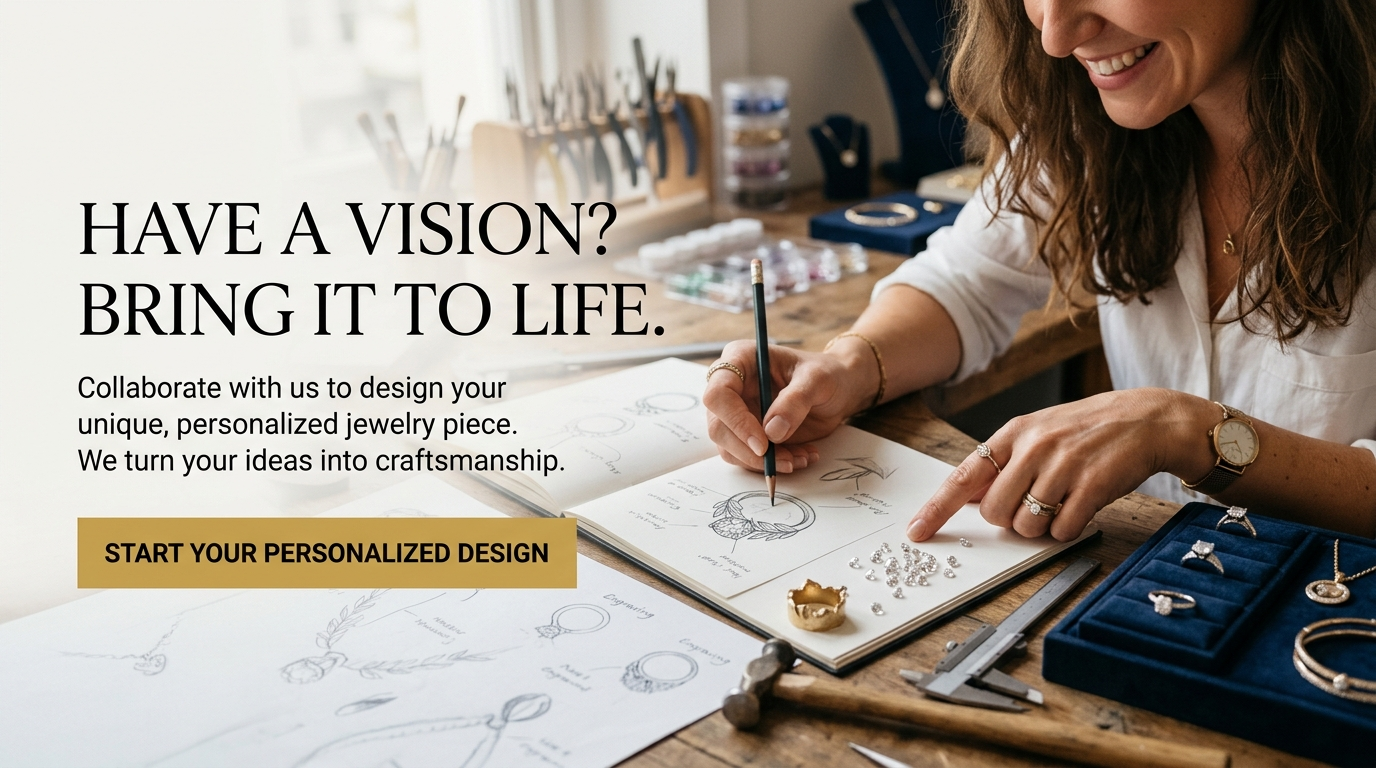
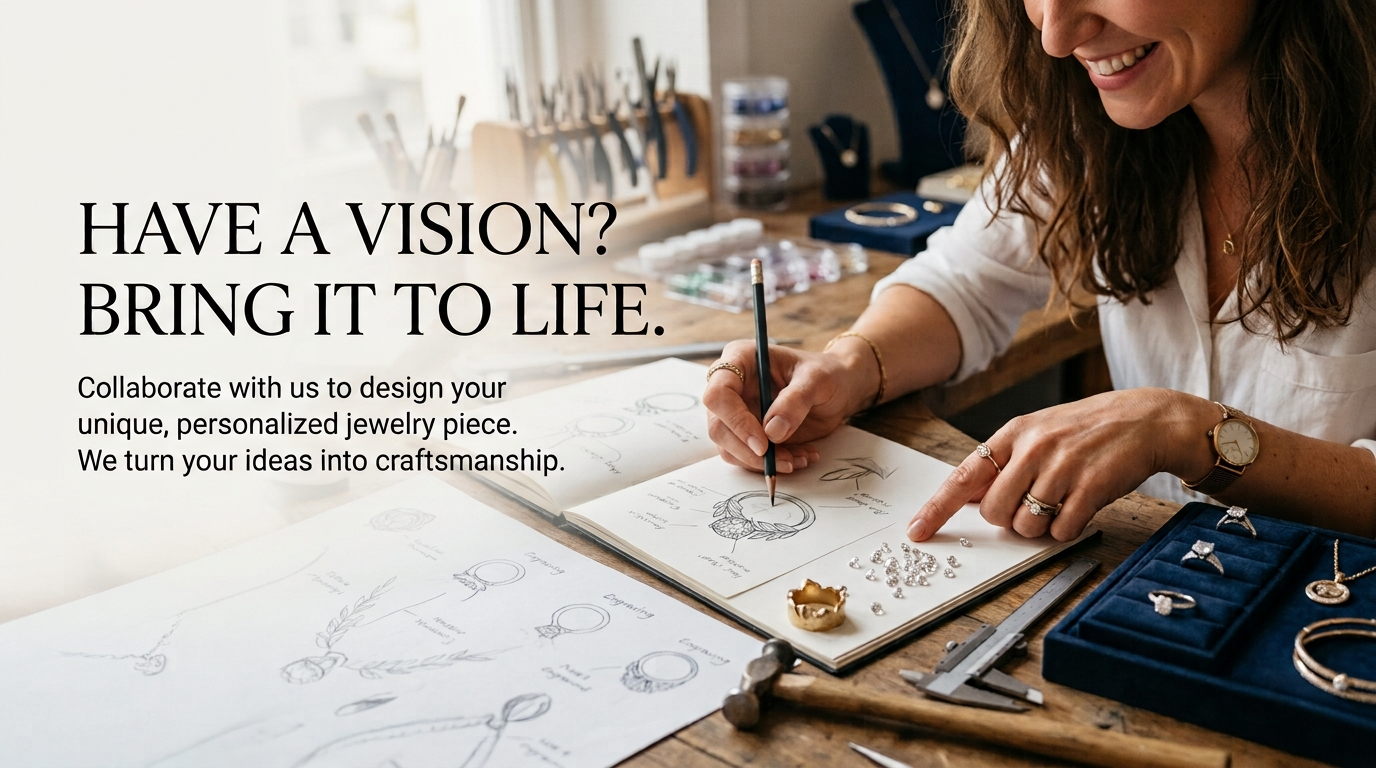
added instagram widgets

Changed region(s): [[0.0312, 0.6562, 0.4375, 0.7812], [0.5312, 0.6562, 0.5625, 0.7188]]

diff --git a/ballu/ballu-ts/src/components/layout/SubNavbar.tsx b/ballu/ballu-ts/src/components/layout/SubNavbar.tsx
@@ -81,6 +81,7 @@ interface PanelData {
   items: any[];
   priceRanges: PanelLink[];
   occasions: { name: string; nepali?: string; image?: string; href: string }[];
+  baseQuery: string;
 }
 
 function collectionSlugOf(name: string): string {
@@ -165,6 +166,11 @@ function getPanelData(item: SubNavItem): PanelData {
   const collectionName = slug ? slugToName.get(slug) || collectionFromSlug[slug] : undefined;
 
   const all = productService.getAll();
+
+  const baseParams = new URLSearchParams();
+  if (materialParam) baseParams.set('material', materialParam);
+  else if (collectionName) baseParams.set('collection', collectionName);
+  const baseQuery = baseParams.toString();
 
   let ctxProducts = all;
   if (materialParam) {
@@ -270,7 +276,7 @@ function getPanelData(item: SubNavItem): PanelData {
     );
   }
 
-  return { categoryMode, collections, items, priceRanges, occasions };
+  return { categoryMode, collections, items, priceRanges, occasions, baseQuery };
 }
 
 export default function SubNavbar() {
@@ -420,10 +426,10 @@ function MegaPanel({
         <div className="min-w-0 flex-1 overflow-y-auto px-6 py-8 md:px-10">
           {activeOption === 'category' ? (
             data.categoryMode === 'collections' ? (
-              <CollectionCards cards={data.collections} onClose={onClose} />
+              <CollectionCards cards={data.collections} baseQuery={data.baseQuery} onClose={onClose} />
             ) : data.categoryMode === 'mixed' ? (
               <>
-                <CollectionCards cards={data.collections} onClose={onClose} />
+                <CollectionCards cards={data.collections} baseQuery={data.baseQuery} onClose={onClose} />
                 {data.items.length > 0 && (
                   <>
                     <h3 className="mb-4 mt-10 text-[11px] tracking-[0.3em] uppercase text-bj-text-muted">
@@ -471,16 +477,20 @@ function OptionButton({
   );
 }
 
-function CollectionCards({ cards, onClose }: { cards: PanelCollection[]; onClose: () => void }) {
+function CollectionCards({ cards, baseQuery, onClose }: { cards: PanelCollection[]; baseQuery?: string; onClose: () => void }) {
   if (cards.length === 0) {
     return <p className="text-[12px] tracking-wide text-bj-text-muted">No collections available.</p>;
   }
   return (
     <div className="grid grid-cols-2 gap-4 sm:grid-cols-3 lg:grid-cols-4">
-      {cards.map((card) => (
+      {cards.map((card) => {
+        const q = new URLSearchParams(baseQuery || '');
+        q.set('collection', card.name.trim().toUpperCase());
+        const href = `/catalogue?${q.toString()}`;
+        return (
         <Link
           key={card.slug}
-          href={`/${card.slug}`}
+          href={href}
           onClick={onClose}
           className="group/col block"
         >
@@ -499,7 +509,8 @@ function CollectionCards({ cards, onClose }: { cards: PanelCollection[]; onClose
             {card.name}
           </p>
         </Link>
-      ))}
+        );
+      })}
     </div>
   );
 }

diff --git a/ballu/ballu-ts/src/components/sections/InstagramFeed.tsx b/ballu/ballu-ts/src/components/sections/InstagramFeed.tsx
@@ -28,25 +28,7 @@ export default function InstagramFeed() {
 
   return (
     <section className="mx-auto w-full max-w-[1400px] px-4 sm:px-6 md:px-16 lg:px-15 pt-10 lg:pt-14">
-      <div className="mb-8 flex items-end justify-between">
-        <div>
-          <p className="text-[11px] tracking-[0.3em] uppercase text-bj-text-muted">Social</p>
-          <h2 className="mt-2 font-serif-editorial text-2xl font-light text-bj-text-heading md:text-3xl">
-            From our Instagram
-          </h2>
-        </div>
-        {siteConfig.social.instagram && siteConfig.social.instagram !== '#' && (
-          <Link
-            href={siteConfig.social.instagram}
-            target="_blank"
-            rel="noopener noreferrer"
-            className="group inline-flex items-center gap-2 whitespace-nowrap text-[12px] tracking-[0.2em] uppercase text-bj-gold-richer transition-colors hover:text-bj-gold-rich"
-          >
-            Follow us
-            <span className="transition-transform duration-300 group-hover:translate-x-1.5">→</span>
-          </Link>
-        )}
-      </div>
+      
 
       <Script
         src="https://elfsightcdn.com/platform.js"

diff --git a/ballu/ballu-ts/src/components/sections/BrandTrust.tsx b/ballu/ballu-ts/src/components/sections/BrandTrust.tsx
@@ -98,8 +98,8 @@ function FeatureGrid({ groupRates }: { groupRates: GroupRate[] | null }) {
   const grouped = groupRates && groupRates.length ? groupByMaterial(groupRates) : [];
 
   return (
-    <div className="brand-grid w-full border-t border-white/10  relative z-10 bg-bj-bg-secondary">
-      <div className="max-w-7xl w-full mx-auto px-6 md:px-12 lg:px-16 py-10 md:py-14 grid grid-cols-1 lg:grid-cols-[minmax(0,1fr)_minmax(0,3fr)] gap-10 lg:gap-16 items-center">
+    <div className="brand-grid w-full   relative z-10 bg-bj-bg-secondary">
+      <div className="max-w-7xl w-full mx-auto px-6 md:px-12 lg:px-16 pb-10 md:pb-14 grid grid-cols-1 lg:grid-cols-[minmax(0,1fr)_minmax(0,3fr)] gap-10 lg:gap-16 items-center">
         <div className="order-1">
           <div className="flex items-center gap-3 mb-6">
             <span className="h-px w-8 bg-bj-gold/60" />
